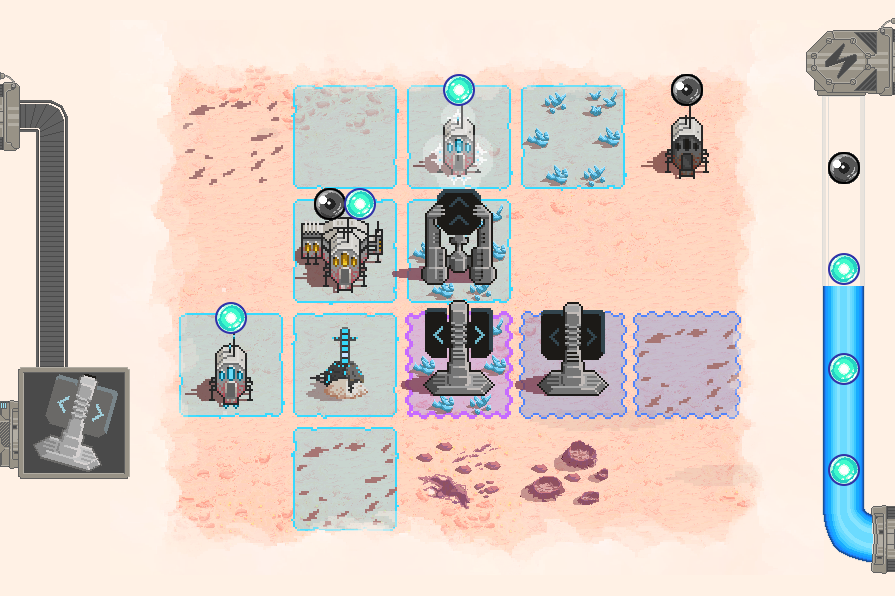
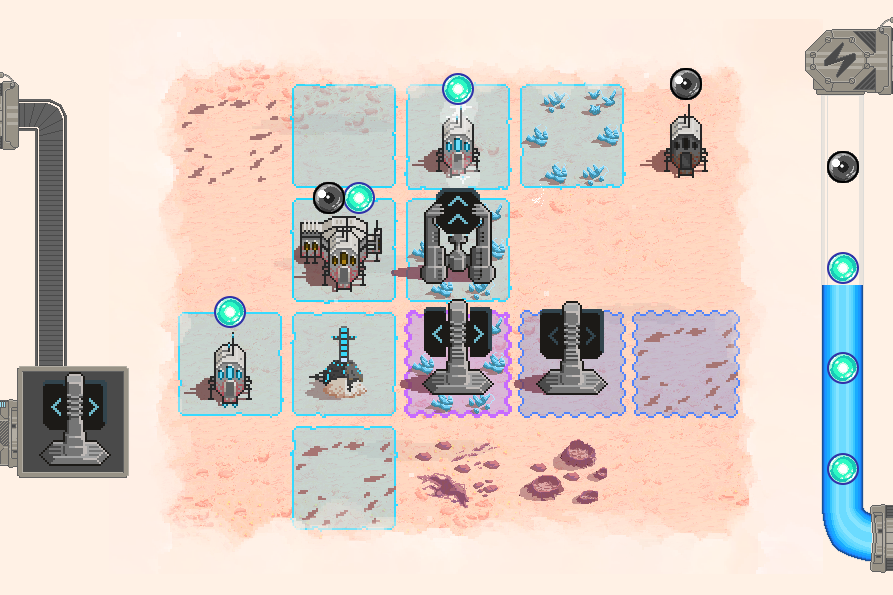
efekt powerUP poniżej markerów POWER testowy poziom ze wszystkim

diff --git a/Assets/_SCRIPTS/GameManager.cs b/Assets/_SCRIPTS/GameManager.cs
@@ -302,7 +302,7 @@ public class GameManager : MonoBehaviour
 			{
 				powerStickers.Add(ps);
 				float dist = topPowerStickerPosition.transform.position.y - bottomStickerPosition.transform.position.y;
-				float po = topPowerStickerPosition.transform.position.y - dist / (powerNeeded) * (i);
+				float po = Mathf.Round((topPowerStickerPosition.transform.position.y - dist / (powerNeeded) * (i)) * 100f) / 100;
 				Vector3 pos = new Vector3(topPowerStickerPosition.transform.position.x, po, topPowerStickerPosition.transform.position.z);
 				ps.transform.position = pos;
 			}
@@ -416,7 +416,6 @@ public class GameManager : MonoBehaviour
 				}
 				if (countPowered >= powerNeeded) allPowered = true;
 
-				//TODO czekaj na zmiane i sprawdz ile sie zmienilo
 				for (int i = powerNeeded - 1; i >= 0; i--)
 				{
 

diff --git a/Assets/_SCRIPTS/PowerMarker.cs b/Assets/_SCRIPTS/PowerMarker.cs
@@ -97,7 +97,7 @@ public class PowerMarker : MonoBehaviour
 		}
 		markers.Clear();
 		markerRenderers.Clear();
-		float y = .45f;
+		float y = .42f;
 		// added in light up order
 		switch (count)
 		{
